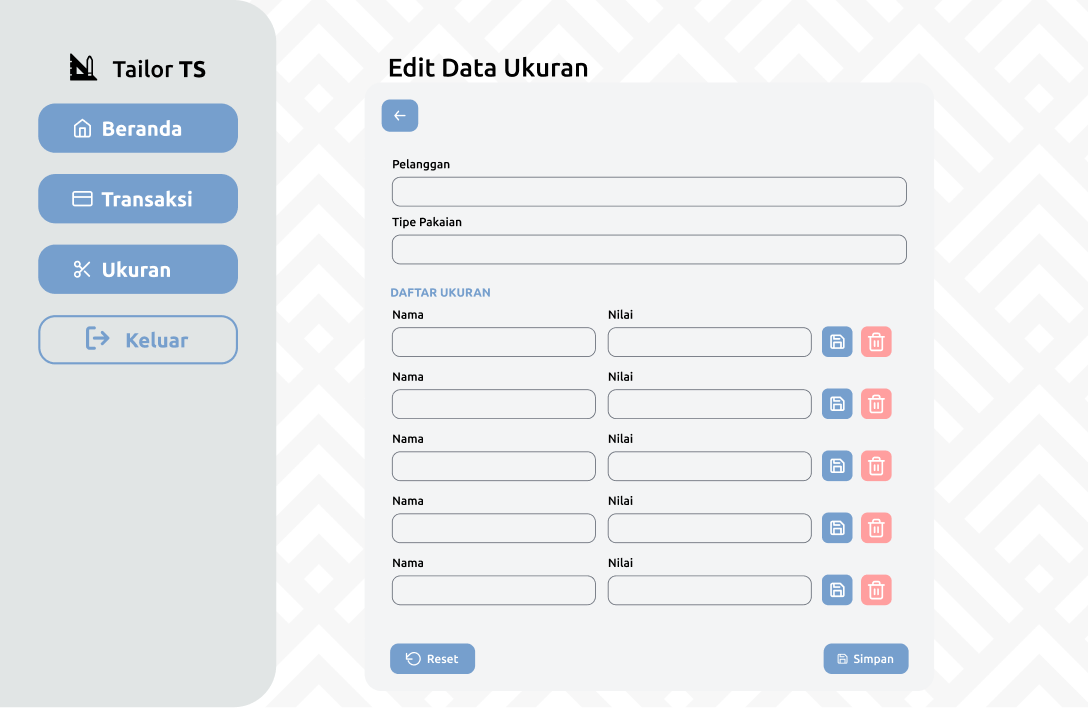
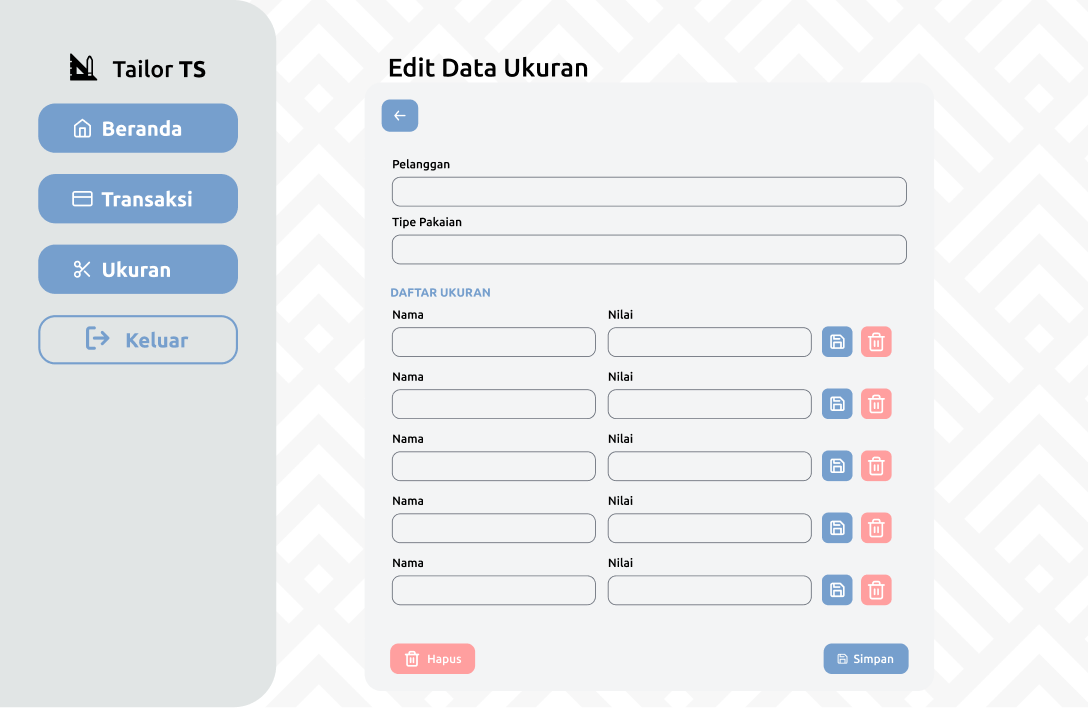
reset button to delete in edit data ukuranview

diff --git a/src/main/java/polije/ppl/tailor/view/tailor/EditDataUkuranView.java b/src/main/java/polije/ppl/tailor/view/tailor/EditDataUkuranView.java
@@ -236,7 +236,15 @@ public class EditDataUkuranView extends javax.swing.JFrame {
     }//GEN-LAST:event_hapusMouseClicked
 
     private void resetMouseClicked(java.awt.event.MouseEvent evt) {//GEN-FIRST:event_resetMouseClicked
+        int clicked = JOptionPane.showConfirmDialog(this, "Apakah anda yakin?");
 
+        if(clicked == 0) {
+            measRepo.delete(measure.getId());
+
+            JOptionPane.showMessageDialog(this, "Data berhasil dihapus");
+            new UkuranView().setVisible(true);
+            this.dispose();
+        }
     }//GEN-LAST:event_resetMouseClicked
 
     private void bbuttonMouseClicked(java.awt.event.MouseEvent evt) {//GEN-FIRST:event_bbuttonMouseClicked

diff --git a/src/main/java/polije/ppl/tailor/view/tailor/TambahDataUkuranView.java b/src/main/java/polije/ppl/tailor/view/tailor/TambahDataUkuranView.java
@@ -42,6 +42,7 @@ public class TambahDataUkuranView extends javax.swing.JFrame {
     public TambahDataUkuranView() {
         this.items = new ArrayList<>();
 
+        fillComboBox();
         initComponents();
         initTransparents();
 
@@ -227,7 +228,7 @@ public class TambahDataUkuranView extends javax.swing.JFrame {
     }//GEN-LAST:event_hapusMouseClicked
 
     private void resetMouseClicked(java.awt.event.MouseEvent evt) {//GEN-FIRST:event_resetMouseClicked
-
+        
     }//GEN-LAST:event_resetMouseClicked
 
     private void bbuttonMouseClicked(java.awt.event.MouseEvent evt) {//GEN-FIRST:event_bbuttonMouseClicked
